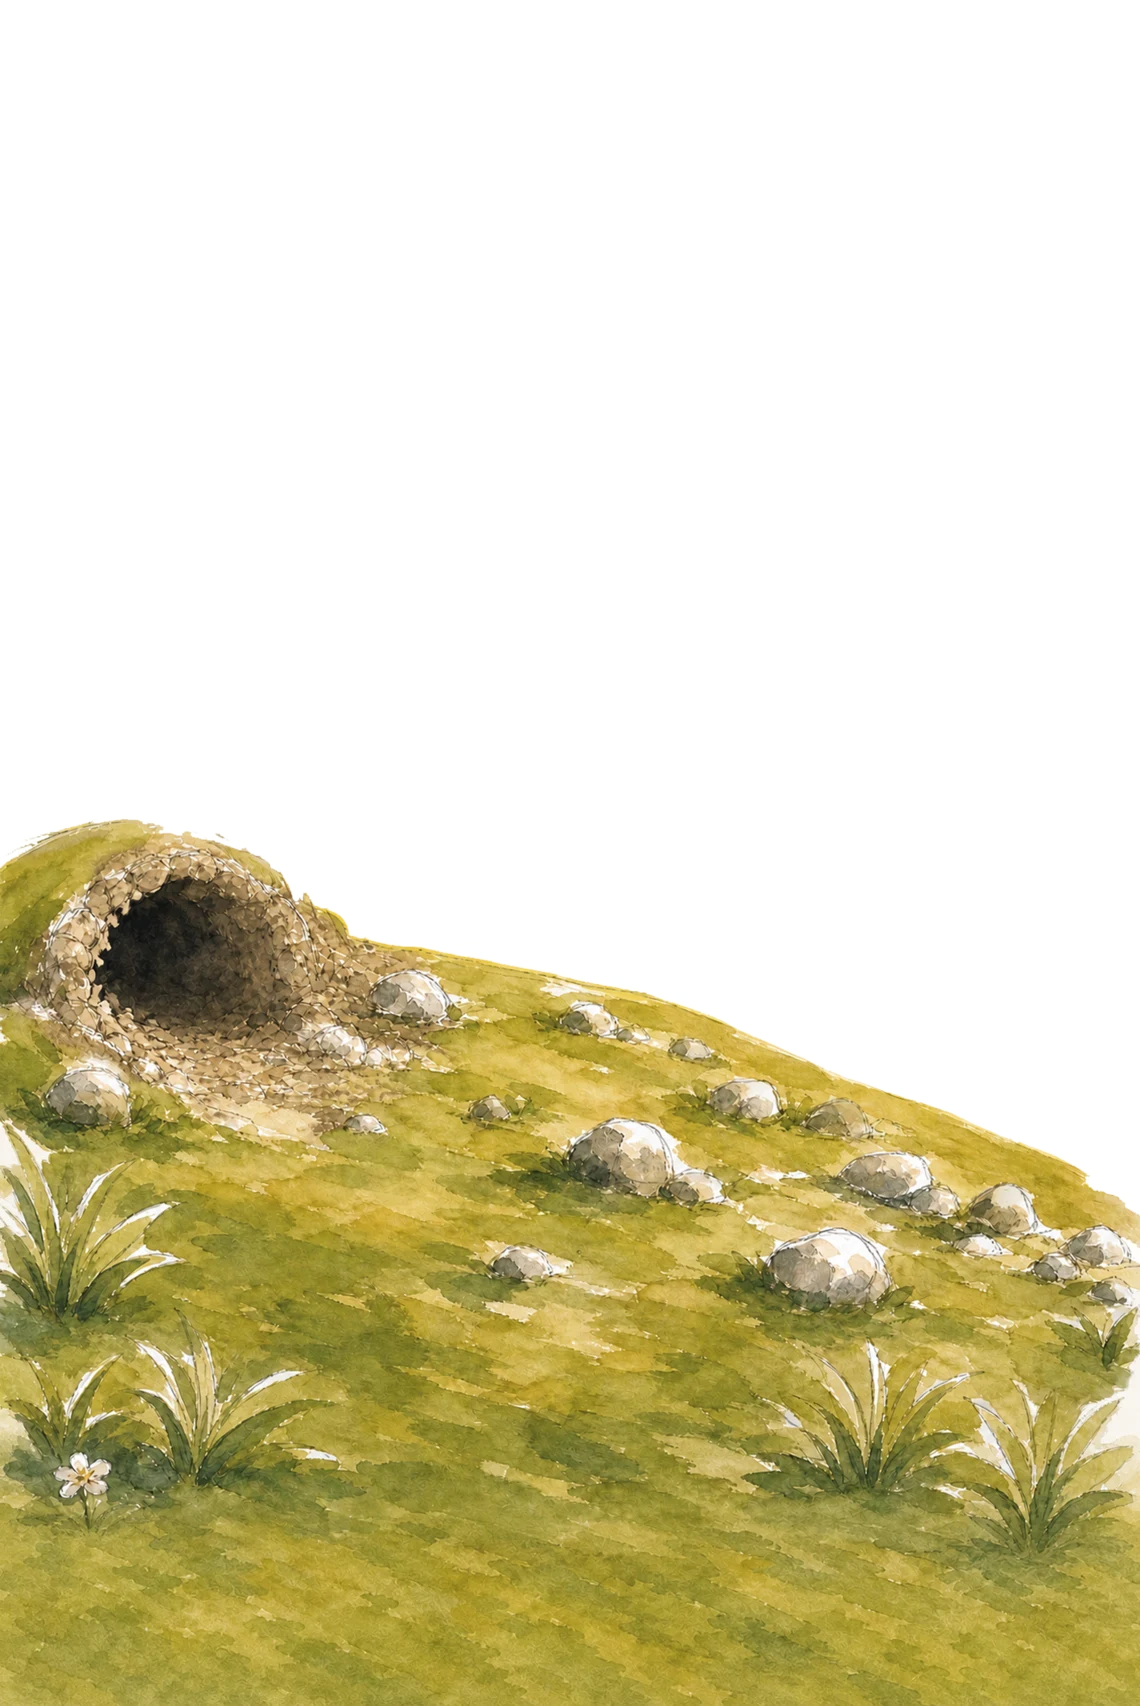
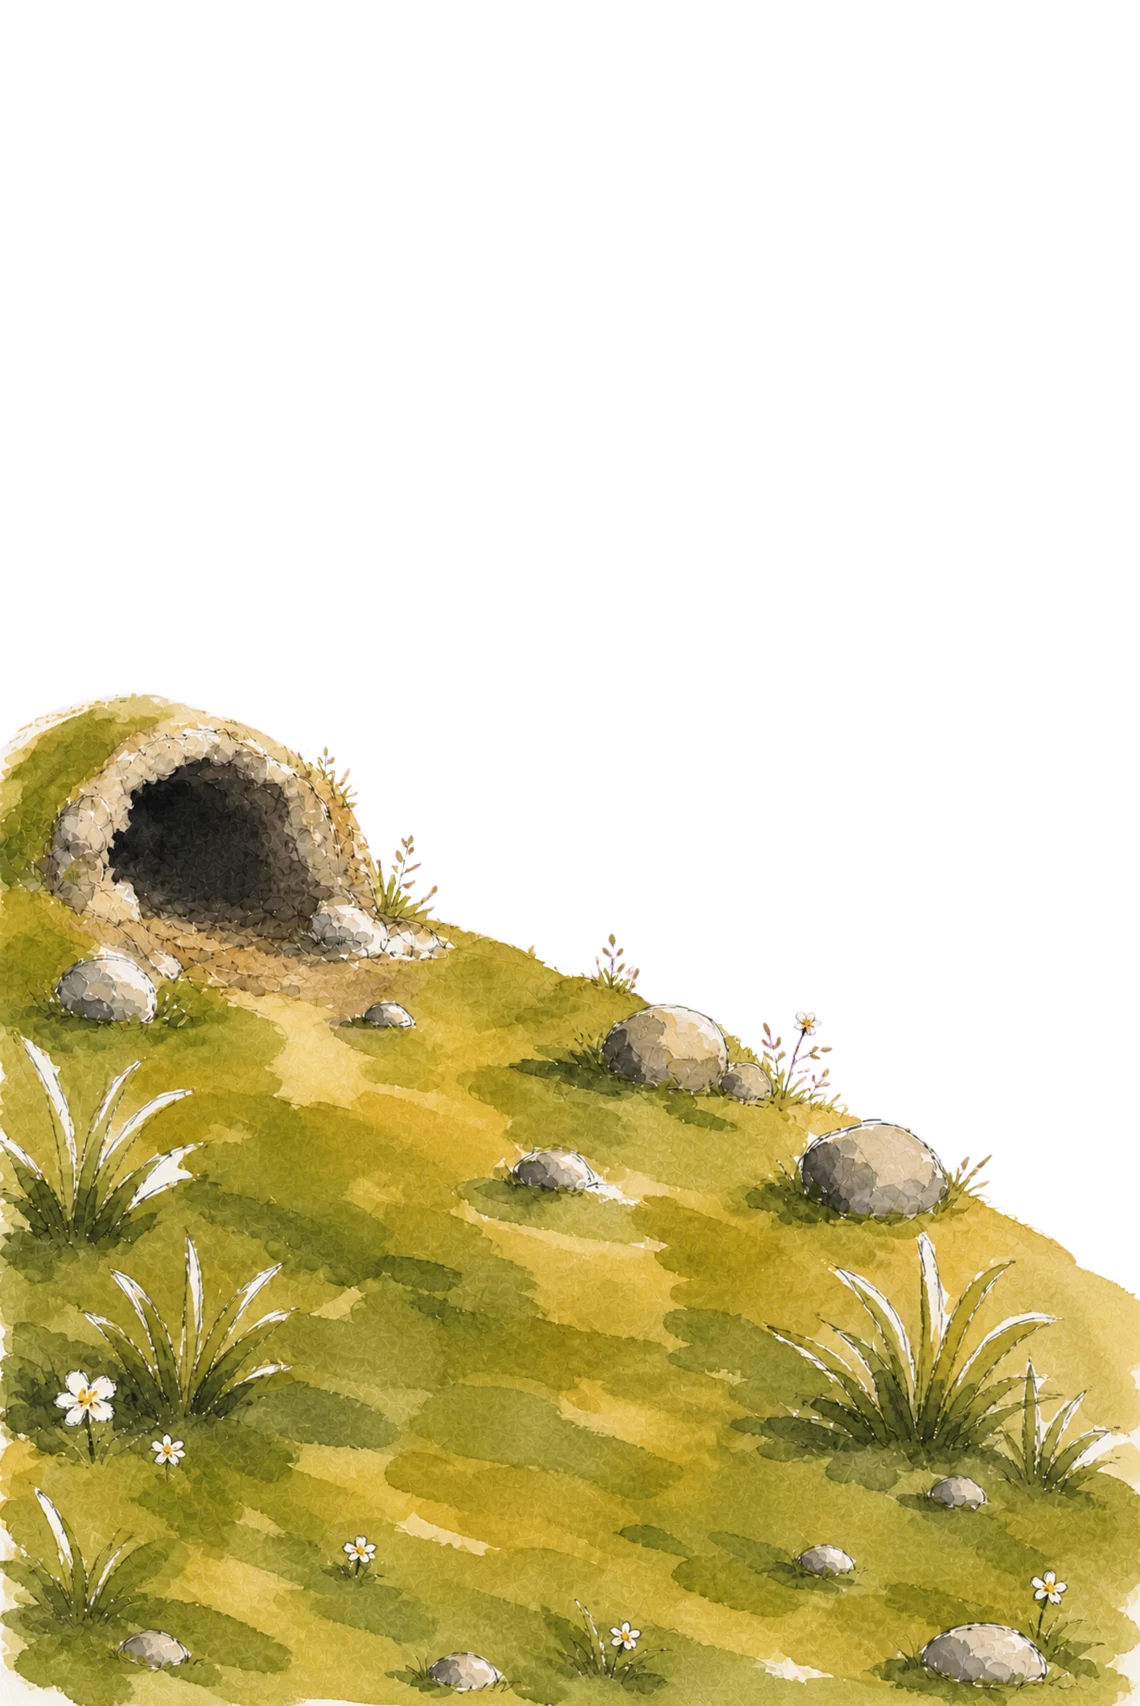
feat(scenery): terrier V15, drop the desktop lift and its duplicate seal

diff --git a/desktop/packages/mullvad-vpn/src/renderer/components/CountryBackdrop/index.tsx b/desktop/packages/mullvad-vpn/src/renderer/components/CountryBackdrop/index.tsx
@@ -53,32 +53,11 @@ const FrontLandscape = styled(FullBleed)<{ $animate: boolean }>`
   }
 `;
 
-// The foreground (burrow + Bula) is raised by a constant share of the frame
-// height so the burrow mouth and the rabbit clear the panel. It is the SAME in
-// every phase on purpose: only the background crossfades between modes, so the
-// foreground never jumps. The seam it uncovers at the bottom stays behind the
-// panel. Kept small so the burrow stays discreet over a cityscape.
-const LIFT_PERCENT = 8;
-
-// Bula rides a smaller lift than the burrow, which lands him just above the
-// connection panel instead of floating in the middle of the sky. He stays on
-// the hillside either way, the slope runs the full width down to the panel, so
-// the lower framing costs nothing and fills the empty band above the card.
+// Bula rides a small lift, which lands him just above the connection panel
+// instead of floating in the middle of the sky. He stays on the hillside either
+// way, the slope runs the full width down to the panel, so the lower framing
+// costs nothing and fills the empty band above the card.
 const BULA_LIFT_PERCENT = 1;
-
-// The burrow foreground, always at the raised framing position.
-//
-// The lift leaves the bottom of the frame with no foreground pixels, so the
-// landscape's own bottom edge showed through: on the watercolor plates that is
-// the pale canal, and it read as a band of sky sitting under the connection
-// card. The gradient footer used to swallow it; the solid footer bar does not.
-// So the layer is drawn a second time UNLIFTED, underneath, sealing that strip
-// with its own grass. It changes no framing, and it can never show anywhere
-// else: above the lifted copy's bottom edge, wherever this copy is opaque the
-// lifted one is opaque too, so it is always fully covered.
-const Foreground = styled(FullBleed)`
-  transform: translateY(-${LIFT_PERCENT}%);
-`;
 
 // Bula sits exposed outside the burrow; when protected he is hidden inside it,
 // sliding down and fading out.
@@ -157,7 +136,6 @@ export default function CountryBackdrop() {
     <Root>
       <CrossfadeLandscape src={scenery.image} animate={animate} blurred={scenery.blurred} />
       <FullBleed src={TERRIER_IMAGE} alt="" aria-hidden />
-      <Foreground src={TERRIER_IMAGE} alt="" aria-hidden />
       <Bula src={BULA_IMAGE} alt="" aria-hidden $visible={scenery.showBula} $animate={animate} />
       <AccentWash $color={accent} $animate={animate} />
     </Root>

diff --git a/ios/WarrenVPN/View controllers/Tunnel/MapViewController.swift b/ios/WarrenVPN/View controllers/Tunnel/MapViewController.swift
@@ -341,10 +341,12 @@ final class SceneryViewController: UIViewController {
     // The burrow foreground and Bula are raised by a constant share of the
     // frame height so the burrow mouth clears the connection card. It is the
     // same in every phase on purpose: only the landscape crossfades, so the
-    // foreground never jumps between modes. Larger than the desktop 8% because
-    // the phone foreground is drawn at canvas width (see the width-fit layout
-    // below) and would otherwise sink behind the connection card.
-    private static let foregroundLift: CGFloat = 0.12
+    // foreground never jumps between modes. Desktop needs no lift at all, its
+    // frame carries the canvas ratio so the master's own framing lands right;
+    // the phone draws the foreground at canvas width (see the width-fit layout
+    // below), far shorter than the bounds, so it would otherwise sink behind
+    // the connection card.
+    private static let foregroundLift: CGFloat = 0.07
 
     // Hiding slides Bula this share of the height down into the burrow.
     private static let bulaHideDrop: CGFloat = 0.03
